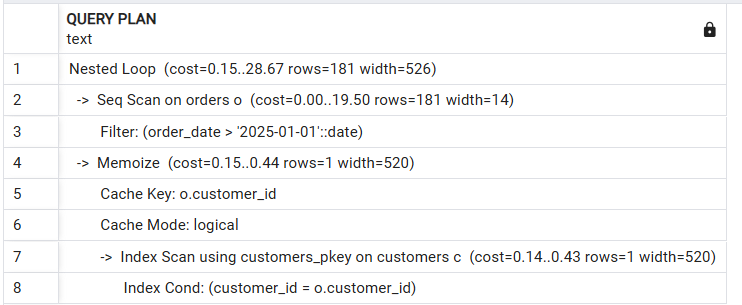
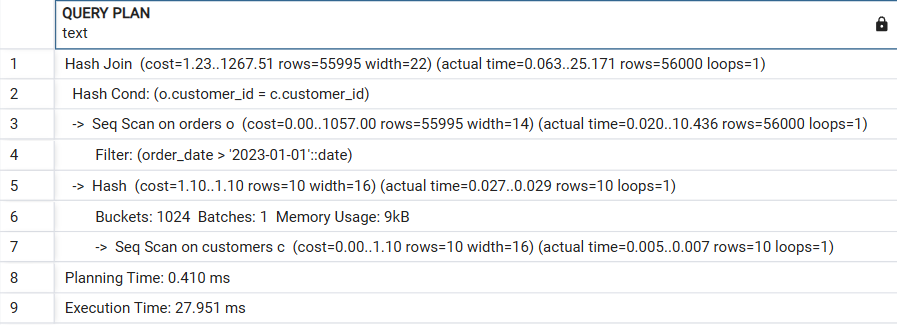
update

Changed region(s): [[0.0, 0.0, 1.0, 0.9738]]

diff --git a/query-optimization.md b/query-optimization.md
@@ -1,35 +1,6 @@
 # Query Optimization
 
-## Exercise 1
-
-The slow query:
-```sql
-SELECT order_id, total_amount,
-       (SELECT name FROM Customers WHERE customer_id = Orders.customer_id) AS customer_name
-FROM Orders
-WHERE total_amount > 100;
-```
-
-The optimized query:
-```sql
-SELECT order_id, total_amount, c.name AS customer_name
-FROM Orders
-JOIN Customers c ON Orders.customer_id = c.customer_id
-WHERE total_amount > 100;
-```
-We have optimized the query be removing the subquery and instead using a Join to fetch the customer name. 
-
-Know we can use Explain to verify the index usage and scan the rows.
-```sql
-EXPLAIN SELECT order_id, total_amount, c.name AS customer_name
-FROM Orders
-JOIN Customers c ON Orders.customer_id = c.customer_id
-WHERE total_amount > 100;
-```
-
-TODO: foto to explain index usage and row scans.
-
-## Exercise 2
+## Scripts for the exercises
 
 We have made a little database for this task and added som dummy data to it.
 
@@ -83,8 +54,36 @@ BEGIN
 END $$;
 ```
 
+## Exercise 1
+
+The slow query:
+
 ```sql
-EXPLAIN SELECT o.order_id, o.total_amount, c.name
+EXPLAIN ANALYZE SELECT order_id, total_amount,
+       (SELECT name FROM Customers WHERE customer_id = Orders.customer_id) AS customer_name
+FROM Orders
+WHERE total_amount > 100;
+```
+
+![alt text](./img/q-e1-e1.png)
+
+The optimized query:
+
+```sql
+EXPLAIN ANALYZE SELECT order_id, total_amount, c.name AS customer_name
+FROM Orders
+JOIN Customers c ON Orders.customer_id = c.customer_id
+WHERE total_amount > 100;
+```
+
+![alt text](./img/q-e1-e2.png)
+
+We can see that the execution time for the omptimized query (~34 ms) is much faster than the slow query (~157 ms).
+
+## Exercise 2
+
+```sql
+EXPLAIN ANALYZE SELECT o.order_id, o.total_amount, c.name
 FROM Orders o
 JOIN Customers c ON o.customer_id = c.customer_id
 WHERE o.order_date > '2023-01-01';
@@ -92,19 +91,36 @@ WHERE o.order_date > '2023-01-01';
 
 ![alt text](./img/q-e2-e1.png)
 
-We have created an index on order_date to optimize the query.
+We have created an index on customer_id to optimize the query.
 
 ```sql
-CREATE INDEX idx_order_order_date ON Orders(order_date);
+CREATE INDEX idx_order_customer_id ON Orders(customer_id);
 ```
 
 We can now run the query again and see the difference.
 
 ![alt text](./img/q-e2-e2.png)
 
+There is not a big difference in the execution time, this is more then likely because the data set is so small. But in a larger data set the difference would be more noticable.
+
 ## Exercise 3
 
 The N+1 Query Problem happens when a query is executed to fetch a list of entities, and then for each entity, another query is executed to fetch related entities. This results in N+1 queries being executed, where N is the number of entities fetched in the first query.
+
+The N+1 Query:
+
+```sql
+-- Fetch all orders first
+SELECT order_id, customer_id FROM Orders WHERE order_date > '2023-01-01';
+
+-- Then, for each order, fetch customer name separately
+SELECT name FROM Customers WHERE customer_id = 1;
+SELECT name FROM Customers WHERE customer_id = 2;
+SELECT name FROM Customers WHERE customer_id = 3;
+...
+```
+
+The rewiten query:
 
 ```sql
 SELECT o.order_id, c.customer_id, c.name AS customer_name
@@ -112,6 +128,8 @@ FROM Orders o
 JOIN Customers c on o.customer_id = c.customer_id
 WHERE o.order_date > '2023-01-01';
 ```
+
+In stead of running two separate queries we have joined the two tables and fetched the customer name in the same query.
 
 ## Exercise 4
 
